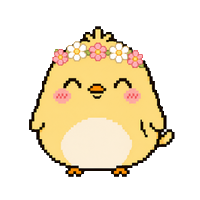
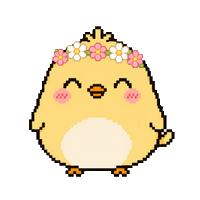
Add a winking Bobbin and make the app follow the season

Changed region(s): [[0.42, 0.39, 0.54, 0.51], [0.69, 0.6, 0.75, 0.69]]

diff --git a/src/components/Landing.tsx b/src/components/Landing.tsx
@@ -2,6 +2,7 @@ import Link from "next/link";
 import { APP_NAME, FIRST_LESSON_MINUTES } from "@/lib/config";
 import { SEASONS, type Season } from "@/lib/season";
 import { PixelArtBobbin } from "./PixelArtBobbin";
+import { SeasonHeadline } from "./SeasonHeadline";
 import { PixelCloud, PixelIcon, type PixelIconName } from "./PixelIcon";
 
 export const SECTION = "px-5 py-14 sm:px-6 sm:py-20";
@@ -32,7 +33,7 @@ export function Nav({ current }: { current?: "about" }) {
     <header className="bg-cream">
       <div className={`${INNER} flex items-center justify-between gap-2 px-4 py-3 sm:gap-4 sm:px-6 sm:py-4`}>
         <Link href="/" className="flex items-center gap-2" aria-label={`${APP_NAME} home`}>
-          <PixelArtBobbin mood="sparkle" outfit="winter" size={36} />
+          <PixelArtBobbin mood="sparkle" size={36} />
           <span className="font-pixel text-2xl font-bold text-ink sm:text-3xl">
             tuft<span className="text-teal">ly</span>
           </span>
@@ -79,7 +80,7 @@ function Island() {
 
       {/* The image has a little empty space under the feet, so pull it down onto the grass. */}
       <div className="relative z-10 -mb-[9%] [&_img]:h-[200px] [&_img]:w-[200px] sm:[&_img]:h-[300px] sm:[&_img]:w-[300px]">
-        <PixelArtBobbin mood="sparkle" outfit="winter" size={300} priority />
+        <PixelArtBobbin mood="sparkle" size={300} priority />
       </div>
 
       <div className="relative w-[calc(100%-32px)] sm:w-[calc(100%-64px)]">
@@ -106,7 +107,7 @@ function Hero() {
             Free practice, with tea breaks
           </span>
           <h1 className="font-pixel text-4xl font-bold leading-[1.05] text-ink sm:text-6xl lg:text-7xl">
-            Warm up for your next coding interview
+            <SeasonHeadline />
           </h1>
           <p className="max-w-xl text-lg text-ink-soft sm:text-xl">
             {APP_NAME} is a friendly practice space. Take short lessons, play through game-like
@@ -240,7 +241,7 @@ function MeetBobbin() {
         <ul className="grid grid-cols-2 gap-4 sm:grid-cols-4">
           {MOODS.map((m) => (
             <li key={m.mood} className="pixel-box flex flex-col items-center gap-1 p-3">
-              <PixelArtBobbin mood={m.mood} outfit="winter" size={104} />
+              <PixelArtBobbin mood={m.mood} size={104} />
               <span className="font-pixel text-sm font-semibold text-ink">{m.label}</span>
             </li>
           ))}
@@ -264,7 +265,7 @@ function Pressure() {
         <ul className="grid gap-6 md:grid-cols-3">
           {LEVELS.map((l) => (
             <li key={l.name} className={`pixel-box flex flex-col items-center gap-3 p-8 text-center ${l.bg}`}>
-              <PixelArtBobbin mood={l.mood} outfit="winter" size={140} />
+              <PixelArtBobbin mood={l.mood} size={140} />
               <h3 className="font-pixel text-xl font-bold text-ink">{l.name}</h3>
               <p className="text-ink-soft">{l.text}</p>
             </li>
@@ -308,7 +309,7 @@ function FinalCall() {
   return (
     <section id="free" className={`${SECTION} bg-teal-wash`}>
       <div className={`${INNER} flex flex-col items-center gap-8 sm:flex-row sm:justify-center`}>
-        <PixelArtBobbin mood="cheering" outfit="winter" size={180} />
+        <PixelArtBobbin mood="cheering" size={180} />
         <div className="flex max-w-xl flex-col items-start gap-4">
           <Title>Ready when you are</Title>
           <p className="text-lg text-ink-soft">

diff --git a/src/components/PixelArtBobbin.tsx b/src/components/PixelArtBobbin.tsx
@@ -1,13 +1,18 @@
+"use client";
+
 import Image from "next/image";
 import { COMPANION } from "@/lib/config";
 import type { Season } from "@/lib/season";
+import { useSeason } from "@/lib/useSeason";
 import type { BobbinMood } from "./Bobbin";
 
 // AI-generated pixel-art sets (200x200, transparent) in /public/bobbin/pixel/<season>/<mood>.webp.
 // Lossless WebP (pixel-identical to the PNG originals in /design, about a third smaller). Images
 // load lazily; pass `priority` for the one above the fold so it is not delayed. "calm" has no separate drawing, so it uses sparkle.
+// "wink" is drawn from sparkle and cheering by scripts/make-wink.mjs: rerun it if those change.
 const FILE: Record<BobbinMood, string> = {
   sparkle: "sparkle",
+  wink: "wink",
   calm: "sparkle",
   happy: "happy",
   thinking: "thinking",
@@ -20,22 +25,25 @@ const FILE: Record<BobbinMood, string> = {
 
 export function PixelArtBobbin({
   mood = "sparkle",
-  outfit = "winter",
+  outfit,
   size = 96,
   priority = false,
 }: {
   mood?: BobbinMood;
+  /** Leave this off: Bobbin dresses for today's season. Set it only to show a particular outfit. */
   outfit?: Season;
   size?: number;
   /** Above-the-fold image: load right away instead of lazily. */
   priority?: boolean;
 }) {
+  const today = useSeason();
+  const season = outfit ?? today;
   const motion =
     mood === "cheering" ? "bobbin-cheer" : mood === "sleepy" ? "bobbin-sleep" : "bobbin-idle";
   return (
     <Image
-      src={`/bobbin/pixel/${outfit}/${FILE[mood]}.webp`}
-      alt={`${COMPANION.name}, a little round pixel-art bird in a ${outfit} outfit, looking ${mood}`}
+      src={`/bobbin/pixel/${season}/${FILE[mood]}.webp`}
+      alt={`${COMPANION.name}, a little round pixel-art bird in a ${season} outfit, ${mood === "wink" ? "winking" : `looking ${mood}`}`}
       width={size}
       height={size}
       unoptimized

diff --git a/src/app/seasons/page.tsx b/src/app/seasons/page.tsx
@@ -4,14 +4,15 @@ import { PixelArtBobbin } from "@/components/PixelArtBobbin";
 import { SEASONS, type Season } from "@/lib/season";
 
 const BLURB: Record<Season, string> = {
-  winter: "Nov–Feb. Teal scarf: cozy and cold-weather ready.",
+  winter: "Dec–Feb. Teal scarf: cozy and cold-weather ready.",
   spring: "Mar–May. A flower crown around the tuft.",
   summer: "Jun–Aug. A straw sun hat with a teal ribbon.",
-  autumn: "Sep–Oct. A dusty-red beret.",
+  autumn: "Sep–Nov. A dusty-red beret.",
 };
 
 const MOODS: BobbinMood[] = [
   "sparkle",
+  "wink",
   "happy",
   "thinking",
   "cheering",
@@ -31,7 +32,7 @@ export default function SeasonsPage() {
       <h1 className="text-2xl font-semibold">Bobbin: seasons and expressions</h1>
       <p className="text-sm text-zinc-600">
         Pixel art only. The app picks the outfit from today&apos;s date (northern hemisphere by
-        default; change <code>HEMISPHERE</code> in the config). Every season has the same 8
+        default; change <code>HEMISPHERE</code> in the config). Every season has the same 9
         expressions.
       </p>
 

diff --git a/src/lib/season.test.ts b/src/lib/season.test.ts
@@ -2,8 +2,8 @@ import test from "node:test";
 import assert from "node:assert/strict";
 import { seasonFor, seasonForMonth } from "./season.ts";
 
-test("scarf season runs November through February (north)", () => {
-  for (const d of ["2026-11-18", "2026-12-25", "2027-01-10", "2027-02-28"]) {
+test("scarf season runs December through February (north)", () => {
+  for (const d of ["2026-12-01", "2026-12-25", "2027-01-10", "2027-02-28"]) {
     assert.equal(seasonFor(d), "winter", d);
   }
 });
@@ -15,6 +15,8 @@ test("spring, summer and autumn months (north)", () => {
   assert.equal(seasonFor("2027-08-31"), "summer");
   assert.equal(seasonFor("2026-09-01"), "autumn");
   assert.equal(seasonFor("2026-10-31"), "autumn");
+  assert.equal(seasonFor("2026-11-01"), "autumn");
+  assert.equal(seasonFor("2026-11-30"), "autumn");
 });
 
 test("southern hemisphere is six months offset", () => {

diff --git a/src/components/About.tsx b/src/components/About.tsx
@@ -64,7 +64,7 @@ export function About() {
               </p>
             </div>
             <div className="mx-auto lg:mx-0">
-              <PixelArtBobbin mood="thinking" outfit="winter" size={200} priority />
+              <PixelArtBobbin mood="thinking" size={200} priority />
             </div>
           </div>
         </section>
@@ -143,7 +143,7 @@ export function About() {
 
         <section className={`${SECTION} bg-teal-wash`}>
           <div className={`${INNER} flex flex-col items-center gap-6 text-center`}>
-            <PixelArtBobbin mood="cheering" outfit="winter" size={140} />
+            <PixelArtBobbin mood="cheering" size={140} />
             <Title>Come practice with Bobbin</Title>
             <p className="max-w-xl text-lg text-ink-soft">
               Your first lesson takes about {FIRST_LESSON_MINUTES} minutes. No card, no pressure.

diff --git a/src/components/Bobbin.stories.tsx b/src/components/Bobbin.stories.tsx
@@ -6,7 +6,7 @@ const meta = {
   component: Bobbin,
   tags: ["autodocs"],
   args: { say: "Make a guess before you see the answer. A wrong guess is fine.", mood: "thinking", outfit: "winter" },
-  argTypes: { mood: { control: "select", options: ["sparkle", "happy", "thinking", "cheering", "sleepy", "determined", "nervous", "teary"] }, outfit: { control: "inline-radio", options: ["winter", "spring", "summer", "autumn"] } },
+  argTypes: { mood: { control: "select", options: ["sparkle", "wink", "happy", "thinking", "cheering", "sleepy", "determined", "nervous", "teary"] }, outfit: { control: "inline-radio", options: ["winter", "spring", "summer", "autumn"] } },
   decorators: [(Story) => <div className="w-[520px] max-w-full"><Story /></div>],
 } satisfies Meta<typeof Bobbin>;
 

diff --git a/src/components/QuestHome.tsx b/src/components/QuestHome.tsx
@@ -104,7 +104,11 @@ export function QuestHome() {
 
   const welcome = (
       <section data-tour="welcome" className="pixel-box flex flex-col items-center gap-3 bg-peach p-4 sm:flex-row sm:gap-6 sm:px-6">
-        <PixelArtBobbin mood={restDay ? "sleepy" : "sparkle"} outfit={season} size={88} />
+        <PixelArtBobbin
+          mood={restDay ? "sleepy" : doneCount > 0 && waiting > 0 ? "wink" : "sparkle"}
+          outfit={season}
+          size={88}
+        />
         <p className="pixel-box w-full flex-1 px-4 py-3 text-center text-base text-ink sm:text-left sm:text-lg">{say}</p>
         {doneCount === 0 ? (
           <Link href={currentId ? `/lessons/${currentId}` : "/home"} className="btn-primary w-full shrink-0 sm:w-auto">

diff --git a/src/lib/useSeason.ts b/src/lib/useSeason.ts
@@ -1,4 +1,4 @@
-import { HEMISPHERE } from "./config";
+import { HEMISPHERE, SEASON_OVERRIDE } from "./config";
 import { todayStr } from "./dates";
 import { seasonFor, type Season } from "./season";
 import { useHydrated } from "./store";
@@ -6,5 +6,6 @@ import { useHydrated } from "./store";
 /** The current season from the device's date. Winter until the browser is ready (no flash of nothing). */
 export function useSeason(): Season {
   const hydrated = useHydrated();
+  if (SEASON_OVERRIDE) return SEASON_OVERRIDE;
   return hydrated ? seasonFor(todayStr(), HEMISPHERE) : "winter";
 }

diff --git a/src/lib/season.ts b/src/lib/season.ts
@@ -5,7 +5,7 @@ export const SEASONS: Season[] = ["winter", "spring", "summer", "autumn"];
 
 /**
  * Northern-hemisphere season for each month (index 0 = January).
- * Cold-weather "scarf season" starts in November and runs through February.
+ * Autumn runs September through November; "scarf season" is December through February.
  */
 const NORTH: Season[] = [
   "winter", // Jan
@@ -18,7 +18,7 @@ const NORTH: Season[] = [
   "summer", // Aug
   "autumn", // Sep
   "autumn", // Oct
-  "winter", // Nov
+  "autumn", // Nov
   "winter", // Dec
 ];
 

diff --git a/src/components/SeasonHeadline.tsx b/src/components/SeasonHeadline.tsx
@@ -1,0 +1,16 @@
+"use client";
+
+import type { Season } from "@/lib/season";
+import { useSeason } from "@/lib/useSeason";
+
+/** The landing page's headline, one for each of Bobbin's outfits. */
+export const HEADLINES: Record<Season, string> = {
+  winter: "Warm up for your next coding interview",
+  spring: "Spring into your next coding interview",
+  summer: "Dive into your next coding interview",
+  autumn: "Fall into step for your next coding interview",
+};
+
+export function SeasonHeadline() {
+  return HEADLINES[useSeason()];
+}

diff --git a/src/components/PixelArtBobbin.stories.tsx b/src/components/PixelArtBobbin.stories.tsx
@@ -3,7 +3,7 @@ import { SEASONS } from "@/lib/season";
 import type { BobbinMood } from "./Bobbin";
 import { PixelArtBobbin } from "./PixelArtBobbin";
 
-const MOODS: BobbinMood[] = ["sparkle", "happy", "thinking", "cheering", "sleepy", "determined", "nervous", "teary"];
+const MOODS: BobbinMood[] = ["sparkle", "wink", "happy", "thinking", "cheering", "sleepy", "determined", "nervous", "teary"];
 
 const meta = {
   title: "Pixel art/PixelArtBobbin",

diff --git a/src/components/Bobbin.tsx b/src/components/Bobbin.tsx
@@ -6,6 +6,7 @@ import { useSeason } from "@/lib/useSeason";
 import { PixelArtBobbin } from "./PixelArtBobbin";
 
 export type BobbinMood =
+  | "wink"
   | "sparkle"
   | "calm"
   | "happy"
